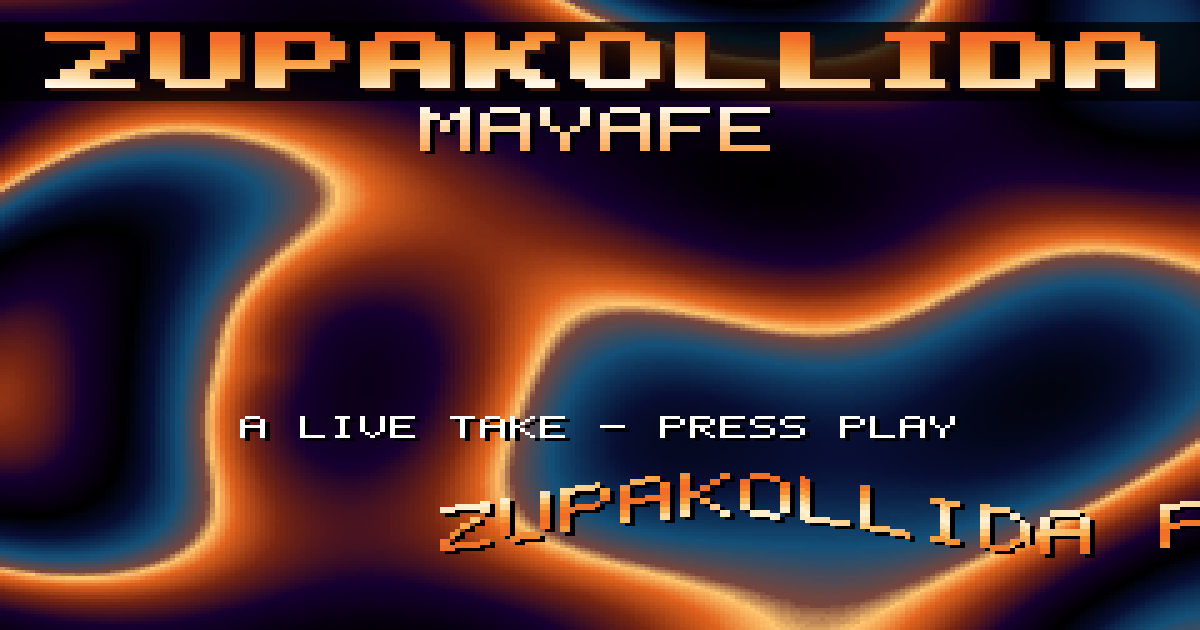
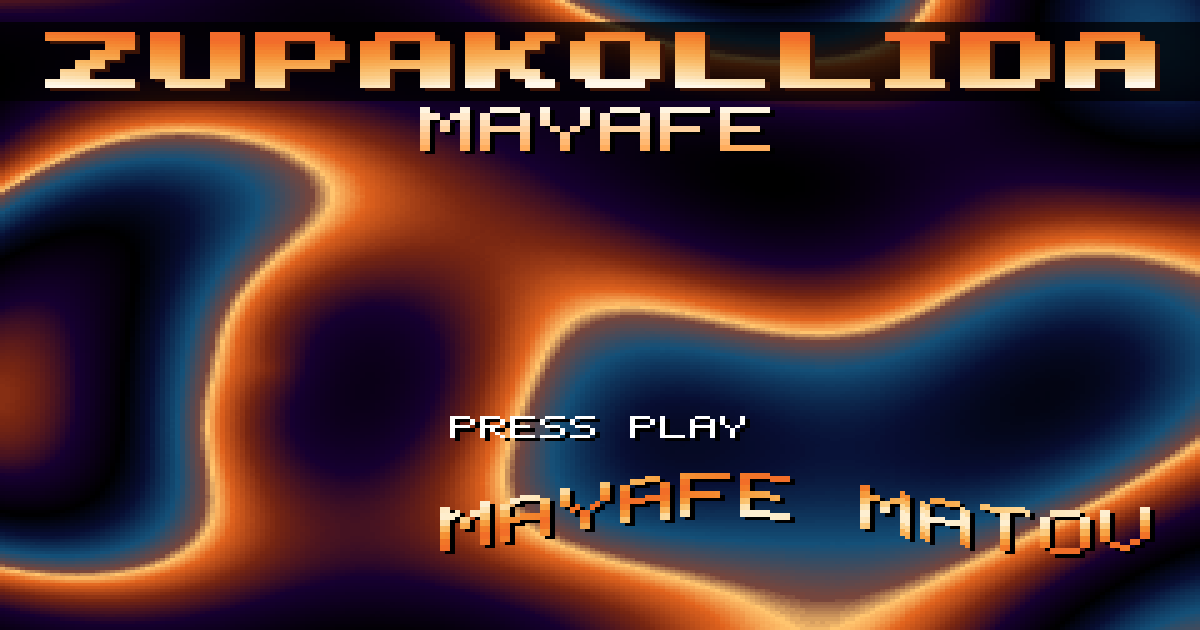
Scroller: MAYAFE MATOV MAZODEK MAHU HAOSHER

diff --git a/index.html b/index.html
@@ -5,9 +5,9 @@
 <meta name="viewport" content="width=device-width, initial-scale=1, viewport-fit=cover">
 <meta name="theme-color" content="#000000">
 <title>mayafe · ZUPAKOLLIDA</title>
-<meta name="description" content="mayafe: a live take made with ZUPAKOLLIDA (SuperCollider + KO II + MiniLab 3). Press play.">
+<meta name="description" content="MAYAFE MATOV MAZODEK MAHU HAOSHER">
 <meta property="og:title" content="mayafe · ZUPAKOLLIDA">
-<meta property="og:description" content="A live take made with ZUPAKOLLIDA. Press play.">
+<meta property="og:description" content="MAYAFE MATOV MAZODEK MAHU HAOSHER">
 <meta property="og:type" content="music.song">
 <meta property="og:url" content="https://ayal.github.io/mayafe/">
 <meta property="og:image" content="https://ayal.github.io/mayafe/thumb.png">
@@ -145,8 +145,7 @@ function rotozoom(t, k) {
     for (let x = 0; x < LW; x++, i++) { const c = TEX[((v & 63) << 6) | (u & 63)]; px[i] = PAL[(c + (c === 120 ? shift : 0)) & 255]; u += ca; v += sa; } }
 }
 const PARTS = [plasma, tunnel, vectorballs, rotozoom];
-const SCROLL = '        ZUPAKOLLIDA PRESENTS  -  MAYAFE  -  A LIVE TAKE FROM 17 OCT 2026  -  SUPERCOLLIDER X KO II X MINILAB 3  -  '
-  + 'KICKS FROM THE EP-133, BASS FROM A MOOG LADDER, KEYS FROM A PROPHET  -  GREETINGS TO EVERYONE WATCHING ON A PHONE  -  TURN IT UP  -  ';
+const SCROLL = '        MAYAFE MATOV MAZODEK MAHU HAOSHER        MAYAFE MATOV MAZODEK MAHU HAOSHER        ';
 // ---- audio: the analyser starts on the first tap (iOS needs a gesture). iPhones mute Web Audio on the silent switch, so newer
 // iOS gets audioSession 'playback'; older iOS skips the analyser and the demo keeps its own beat ----
 const iOS = /iP(hone|ad|od)/.test(navigator.userAgent) || (navigator.platform === 'MacIntel' && navigator.maxTouchPoints > 1);
@@ -196,7 +195,7 @@ function frame(now) {
       text(m, Math.round((LW - m.length * 6 * s2) / 2), Math.round(LH * 0.5 - 3.5 * s2), s2, () => 0xffffffff, 0, t); }
     else if (a.paused && !PREVIEW && !THUMB && (Math.floor(clock * 2.5) % 2 === 0)) { const m = 'PRESS PLAY', s2 = LW >= 200 ? 2 : 1;
       text(m, Math.round((LW - m.length * 6 * s2) / 2), Math.round(LH * 0.5 - 3.5 * s2), s2, () => 0xffffffff, 0, t); }
-    if (THUMB) { const m = 'A LIVE TAKE - PRESS PLAY'; text(m, Math.round((LW - m.length * 6) / 2), Math.round(LH * 0.66), 1, () => 0xffffffff, 0, t); }
+    if (THUMB) { const m = 'PRESS PLAY'; text(m, Math.round((LW - m.length * 6) / 2), Math.round(LH * 0.66), 1, () => 0xffffffff, 0, t); }
     if (a.duration && !THUMB) { const wb = Math.round(LW * bufferedPct() / 100), w = Math.round(LW * a.currentTime / a.duration);
       for (let x = 0; x < wb; x++) { px[(LH - 2) * LW + x] = 0xff404040; px[(LH - 1) * LW + x] = 0xff404040; }   // downloaded
       for (let x = 0; x < w; x++) { px[(LH - 2) * LW + x] = rgb(242, 107, 43); px[(LH - 1) * LW + x] = rgb(242, 107, 43); } }   // played

diff --git a/README.md b/README.md
@@ -1,5 +1,5 @@
 # mayafe
 
-A live take made with ZUPAKOLLIDA (SuperCollider + KO II sounds + Arturia MiniLab 3).
+MAYAFE MATOV MAZODEK MAHU HAOSHER
 
-Listen: https://ayal.github.io/mayafe/
+https://ayal.github.io/mayafe/
